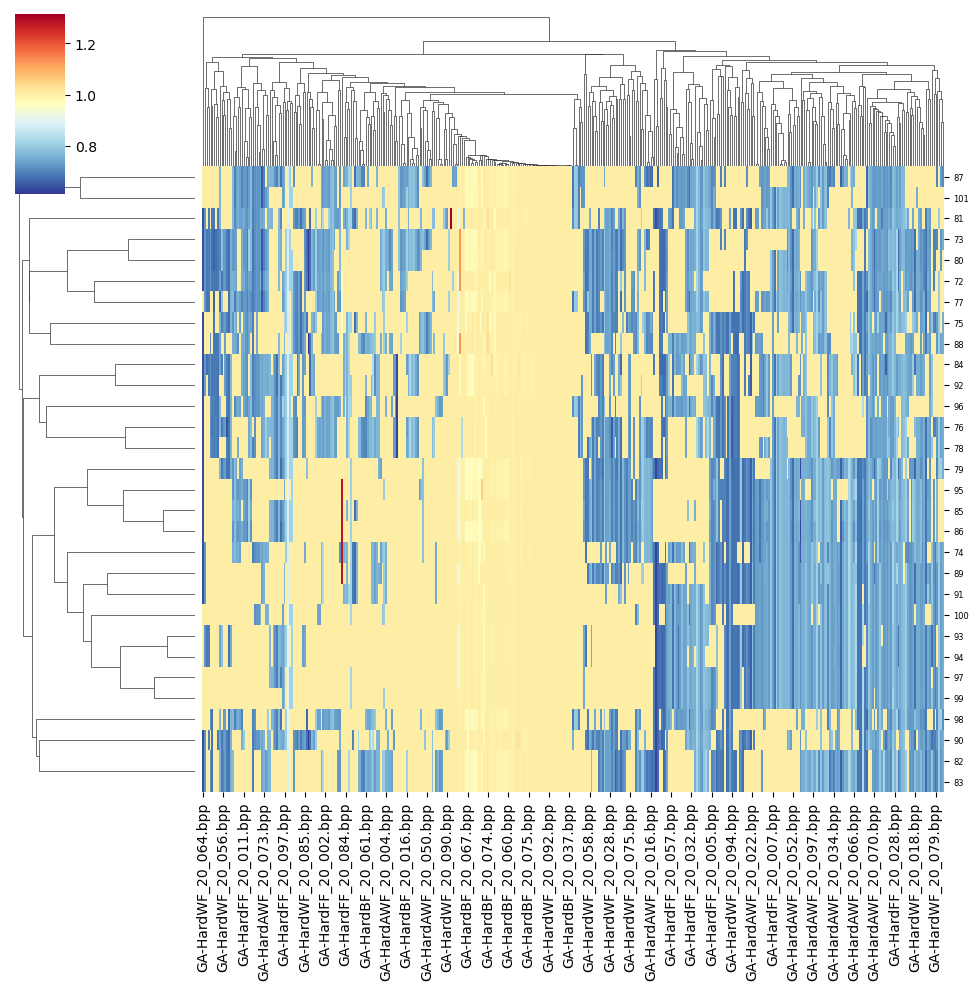
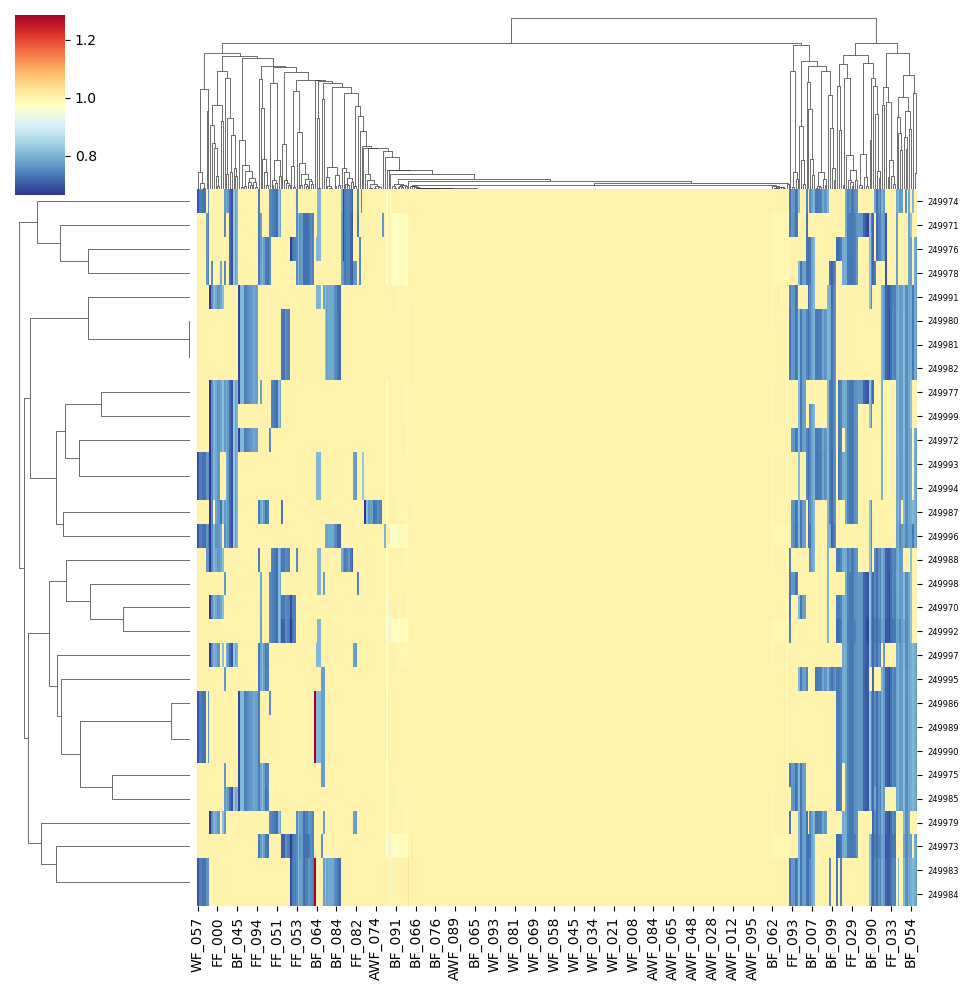
actualizacion_etiquetas_instancias
Etiquetas de las instancias cortas en lugar del nombre del archivo

diff --git a/clustering.py b/clustering.py
@@ -27,8 +27,17 @@ def clustermap_analysis(df, filename):
 def dendogram_analysis(df_sorted):
 
     # delete the column, because we are not analysing the average yet
+    print(df_sorted)
     df_sorted_without_avg = df_sorted.drop(columns=['avg_norm'])
-    df_sorted_without_avg = df_sorted.drop(columns=['Unnamed: 0'])
+    df_sorted_without_avg = df_sorted_without_avg.drop(columns=['Unnamed: 0'])
+
+    pattern = r'Hard([A-Z]{2,3})_.*?(\d{3})\.bpp'
+
+    # Use the str.extract method to apply the pattern to the column names
+    new_columns = df_sorted_without_avg.columns.str.extract(pattern)
+
+    # Combine the extracted parts to form the new column names
+    df_sorted_without_avg.columns = new_columns[0] + '_' + new_columns[1]
 
     # analyze the 30 sequences with BEST and WORST average
     clustermap_analysis(df_sorted_without_avg.head(30), "30_worst.png")
@@ -119,15 +128,6 @@ def cluster_sequences(df_sequences_instances):
     fig, ax = plt.subplots(1, figsize=(8,8))
     # plot data
     plt.scatter(finalDf.pc_1, finalDf.pc_2, c=finalDf.c, alpha = 0.6, s=10)
-        # create a list of legend elemntes
-
-
-    ## markers / records
-    #legend_elements = [Line2D([0], [0], marker='o', color='w', label='Cluster {}'.format(i),
-    #           markerfacecolor=mcolor, markersize=5) for i, mcolor in enumerate(colors)]
-    # plot legend
-    #plt.legend(handles=legend_elements, loc='upper right')
-    # title and labels
     plt.title('PCA 2D\n', loc='left', fontsize=22)
     plt.xlabel('PC_1')
     plt.ylabel('PC_2')
@@ -135,7 +135,7 @@ def cluster_sequences(df_sequences_instances):
     df_sequences_instances.to_csv("df_sequences_instances_clusters.csv", index = False)
     
 df_sequences_instances = pd.read_csv("df_sequences_instances.csv")
-cluster_sequences(df_sequences_instances)
+#cluster_sequences(df_sequences_instances)
 
 dendogram_analysis(df_sequences_instances)
 
